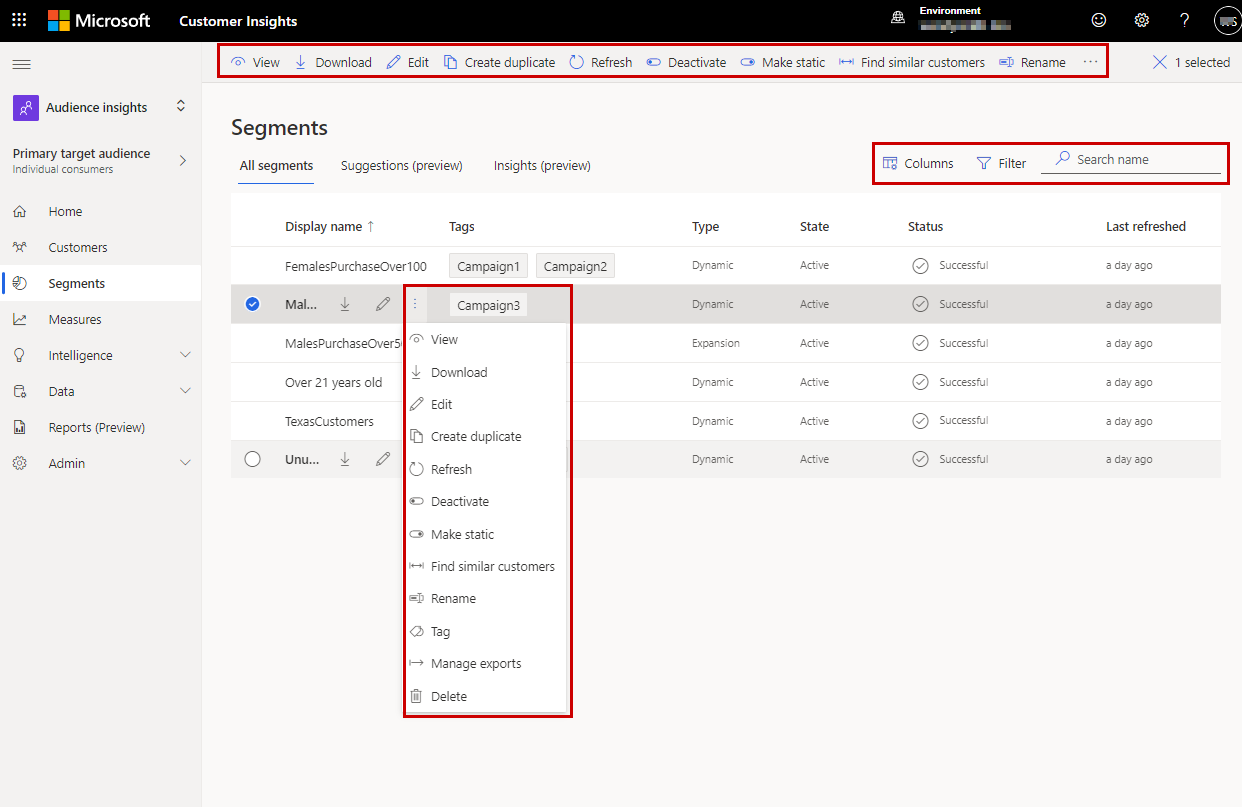
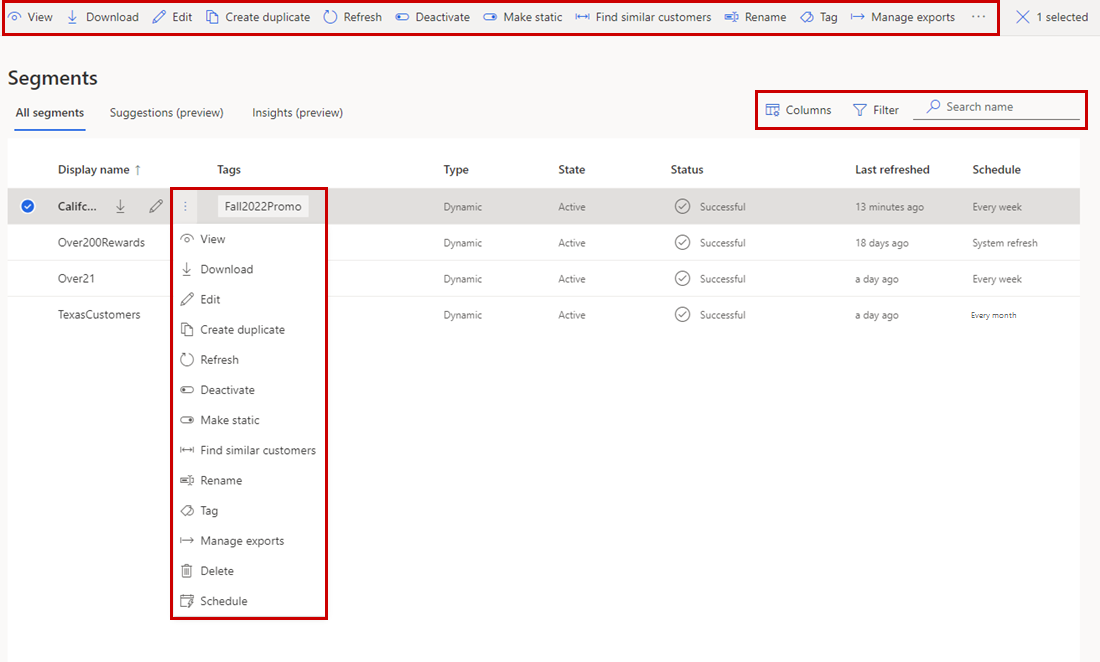
Var schedule screens

diff --git a/ci-docs/measures.md b/ci-docs/measures.md
@@ -1,7 +1,7 @@
 ---
 title: "Measures overview"
 description: "Learn how measures help analyze and reflect the performance of your business."
-ms.date: 09/19/2022
+ms.date: 09/26/2022
 
 ms.subservice: audience-insights
 ms.topic: conceptual
@@ -19,7 +19,7 @@ searchScope:
 
 # Measures overview
 
-Measures help you to better understand customer behaviors and business performance. They look at relevant values from [unified profiles](data-unification.md). For example, a business wants to see the *total spend per customer* to understand an individual customer’s purchase history or measure *total sales of the company* to understand the aggregate-level revenue in the whole business.
+Measures help you to better understand customer behaviors and business performance. They look at relevant values from [unified profiles](data-unification.md). For example, a business wants to see the *total spend per customer* to understand an individual customer’s purchase history or measure *total sales of the company* to understand the aggregate-level revenue in the whole business. Some [service limits](/dynamics365/customer-insights/service-limits) apply.
 
 Create measures to plan business activities by querying customer data and extract insights. For example, create a measure of *total spend per customer* and *total return per customer* to help identify a group of customers with high spend yet high return. Then, [create a segment](segments.md) based on these measures to drive next best actions.
 
@@ -59,23 +59,25 @@ Select next to a measure to view available actions. Select the measure name to p
 
 ## Schedule measures
 
-Measures can be refreshed on the [scheduled system refresh](schedule-refresh.md), weekly, monthly, or refreshed manually on demand. For example, you might want to schedule measures that don't change often or are for last season on a slower cadence such as monthly to avoid unnecessary processing time. The default is every scheduled system refresh.
+Measures can be refreshed on the [scheduled system refresh](schedule-refresh.md), weekly, monthly, or refreshed manually on demand. You might want to schedule last season's measures or measures that don't change often on a slower cadence such as monthly to avoid unnecessary processing time. The default is every scheduled system refresh.
 
 Define refresh schedules for one or more measures. The currently defined schedule is listed in the **Schedule** column of the measure list.
 
 1. Go to **Measures**.
 
-1. Select one or more measures you want to schedule.
+1. Select the measures you want to schedule.
 
 1. Select **Schedule**.
 
 1. In the **Schedule** pane, set the **Schedule run** to **On** to run the measure automatically. Set it to **Off** to refresh it manually.
 
-1. For automatically refreshed measures, select the **Recurrence** value and the details for it. On the scheduled day, the refresh occurs after the scheduled system refresh.
+1. For automatically refreshed measures, select **Recurrence** and the details for it. On the scheduled day, the refresh occurs after the scheduled system refresh.
+
+   :::image type="content" source="media/measures-schedule.png" alt-text="Selected measure with Schedule pane.":::
 
 1. When defining the schedule for several measures, make a selection under **Keep or override schedules**:
    - **Keep individual schedules**: Keep the previously defined schedule for the selected measures and only disable or enable them.
-   - **Define new schedule for all selected Measures**: Override the existing measures of the selected segments.
+   - **Define new schedule for all selected measures**: Override the existing schedules of the selected measures.
 
 1. Select **Save**.
 

diff --git a/ci-docs/segments.md b/ci-docs/segments.md
@@ -1,7 +1,7 @@
 ---
 title: "Segments overview"
 description: "Overview on segments and how to create and manage them."
-ms.date: 09/19/2022
+ms.date: 09/26/2022
 ms.subservice: audience-insights
 ms.topic: overview
 author: JimsonChalissery
@@ -102,7 +102,7 @@ Export segments to other apps to further use the data. Export a segment from the
 
 ## Schedule segments
 
-Segments can be refreshed based on the [scheduled system refresh](schedule-refresh.md), weekly, monthly, or refreshed manually on demand. For example, you might want to schedule segments that don't change often or are for last season on a slower cadence such as monthly to avoid unnecessary processing time. The default is every scheduled system refresh.
+Segments can be refreshed based on the [scheduled system refresh](schedule-refresh.md), weekly, monthly, or refreshed manually on demand. You might want to schedule last season's segments or segments that don't change often on a slower cadence such as monthly to avoid unnecessary processing time. The default is every scheduled system refresh.
 
 For scheduled refreshes, the following rules apply:
 
@@ -113,17 +113,19 @@ Define refresh schedules for one or more segments. The currently defined schedul
 
 1. Go to **Segments**.
 
-1. Select one or more segments you want to schedule.
+1. Select the segments you want to schedule.
 
 1. Select **Schedule**.
 
 1. In the **Schedule** pane, set the **Schedule run** to **On** to run the segment automatically. Set it to **Off** to refresh it manually.
 
-1. For automatically refreshed segments, select the **Recurrence** value and the details for it. On the scheduled day, the refresh occurs after the scheduled system refresh.
+1. For automatically refreshed segments, select **Recurrence** and the details for it. On the scheduled day, the refresh occurs after the scheduled system refresh.
 
 1. When defining the schedule for several segments, make a selection under **Keep or override schedules**:
    - **Keep individual schedules**: Keep the previously defined schedule for the selected segments and only disable or enable them.
-   - **Define new schedule for all selected Segmentations**: Override the existing schedules of the selected segments.
+   - **Define new schedule for all selected segments**: Override the existing schedules of the selected segments.
+
+   :::image type="content" source="media/segments-schedule.png" alt-text="Selected segments with Schedule pane.":::
 
 1. Select **Save**.
 

diff --git a/ci-docs/segment-builder.md b/ci-docs/segment-builder.md
@@ -1,7 +1,7 @@
 ---
 title: "Create complex segments with segment builder"
 description: "Use segment builder to create complex segments of customers by grouping them based on various attributes."
-ms.date: 08/12/2022
+ms.date: 09/26/2022
 
 ms.subservice: audience-insights
 ms.topic: how-to
@@ -111,7 +111,7 @@ The example above illustrates the segmentation capability. We've defined a segme
    > - If the attribute you want to project is just one hop away from the *Customer* or *ContactProfile* entity, that attribute doesn't need to be present in every rule of the segment query you are building.
    > - **Projected attributes** are factored in when using set operators.
 
-1. Select **Run** to create the segment. Select **Save** if you want to keep the current configuration and run the segment later. The **Segments** page displays.
+1. Select **Run** to create the segment. If you want to keep the current configuration and run the segment later, select **Save** and then **Close**. The **Segments** page displays.
 
 ### Segment builder tips
 
@@ -126,6 +126,7 @@ When creating a segment using the segment builder, keep in mind the following ti
 
 ## Next steps
 
-[Export a segment](export-destinations.md) and explore the [Customer Card integration](customer-card-add-in.md) to use segments in other applications.
+- [Schedule](segments.md#schedule-segments) a segment.
+- [Export a segment](export-destinations.md) and explore the [Customer Card integration](customer-card-add-in.md) to use segments in other applications.
 
 [!INCLUDE [footer-include](includes/footer-banner.md)]

diff --git a/ci-docs/segment-quick.md b/ci-docs/segment-quick.md
@@ -1,7 +1,7 @@
 ---
 title: "Create simple segments with quick segments"
 description: "Create simple segments of customers to group them based on various attributes."
-ms.date: 03/25/2022
+ms.date: 09/26/2022
 
 ms.subservice: audience-insights
 ms.topic: how-to
@@ -45,6 +45,7 @@ Quick segments let you build simple segments with a single operator quickly for 
 
 ## Next steps
 
-[Export a segment](export-destinations.md) and explore the [Customer Card integration](customer-card-add-in.md) to use segments in other applications.
+- [Schedule](segments.md#schedule-segments) a segment.
+- [Export a segment](export-destinations.md) and explore the [Customer Card integration](customer-card-add-in.md) to use segments in other applications.
 
 [!INCLUDE [footer-include](includes/footer-banner.md)]

diff --git a/ci-docs/measure-templates.md b/ci-docs/measure-templates.md
@@ -1,7 +1,7 @@
 ---
 title: "Create measures from templates"
 description: "Define measures using templates for common use cases."
-ms.date: 03/25/2022
+ms.date: 09/26/2022
 
 ms.subservice: audience-insights
 ms.topic: conceptual
@@ -66,8 +66,9 @@ Available measure templates:
 
 1. Select **Run** to calculate the results of the measure. Select **Save draft** if you want to keep the current configuration and run the measure later. The **Measures** page displays.
 
-## Next step
+## Next steps
 
-Use existing measures to create [a customer segment](segments.md).
+- [Schedule](measures.md#schedule-measures) a measure.
+- Use existing measures to create [a customer segment](segments.md).
 
 [!INCLUDE [footer-include](includes/footer-banner.md)]

diff --git a/ci-docs/measure-builder.md b/ci-docs/measure-builder.md
@@ -1,7 +1,7 @@
 ---
 title: "Create measures with measure builder"
 description: "Build measures from scratch to analyze key metrics about your business."
-ms.date: 03/25/2022
+ms.date: 09/26/2022
 
 ms.subservice: audience-insights
 ms.topic: conceptual
@@ -165,8 +165,9 @@ Create measures on the level of individual accounts (customer measure) or on the
 
 ---
 
-## Next step
+## Next steps
 
-Use existing measures to create [a customer segment](segments.md).
+- [Schedule](measures.md#schedule-measures) a measure.
+- Use existing measures to create [a customer segment](segments.md).
 
 [!INCLUDE [footer-include](includes/footer-banner.md)]

diff --git a/ci-docs/work-with-tags-columns.md b/ci-docs/work-with-tags-columns.md
@@ -31,7 +31,7 @@ You can view, add, and remove tags from an item. Add tags as you create an item.
 
 1. Go to the list view. For example, go to **Segments**.
 
-1. Select the item whose tags you want to manage.
+1. Select the items whose tags you want to manage.
 
 1. Select the vertical ellipsis (&vellip;) and select **Tag**.
 
